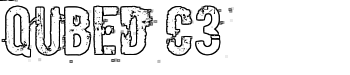
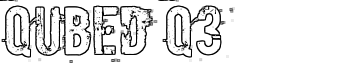
Update website to reflect new changes to branding.

diff --git a/index.html b/index.html
@@ -4,7 +4,7 @@
 <head>
   <meta http-equiv="Content-Type" content="text/html; charset=UTF-8"/>
   <meta name="viewport" content="width=device-width, initial-scale=1, maximum-scale=1.0, user-scalable=no"/>
-  <title>Qubed C3 - Home</title>
+  <title>Qubed Q3 - Home</title>
 
   <!-- CSS  -->
   <link href="https://fonts.googleapis.com/icon?family=Material+Icons" rel="stylesheet">
@@ -32,7 +32,7 @@
     <div class="section no-pad-bot">
       <div class="container">
         <br><br>
-        <h1 class="header center amber-text text-darken-3">Qubed C3</h1>
+        <h1 class="header center amber-text text-darken-3">Qubed Q3</h1>
         <div class="row center">
           <h5 class="header col red-text text-accent-4 s12 dark">A community for gamers. By gamers.</h5>
         </div>
@@ -101,24 +101,23 @@
       <div class="row">
         <div class="col l6 s12">
           <h5 class="white-text">About us</h5>
-          <p class="white-text">We are a group of gamers looking to have a fresh start as a brand new community. You'll find some old and new faces here that value and support one another.</p>
+          <p class="white-text">Who are we you ask? We are Qubed. We are gamers, artists, streamers, creators, and most of all friends. Born out of the ashes of a once great communit that held together through the years thanks to the fabric of our friendship, we will rebuild. We will be stronger and better through our cooperative efforts. Our community leaders will be committed to keeping this a fun environment for people to play together. If you like what you see consider joining us and taking part in the fun.</p>
 
 
         </div>
         <div class="col l3 s12">
           <h5 class="white-text">Connect</h5>
           <ul>
-            <li><a class="white-text" href="https://github.com/QubedC3/">Github</a></li>
-            <li><a class="white-text" href="#!">Link 2</a></li>
-            <li><a class="white-text" href="#!">Link 3</a></li>
-            <li><a class="white-text" href="#!">Link 4</a></li>
+            <li><a class="white-text" href="https://github.com/QubedQ3/">Github</a></li>
+            <li><a class="white-text" href="https://player.me/qubed_q3">Player.me</a></li>
+            <li><a class="white-text" href="https://twitter.com/Qubed_Q3">Twitter</a></li>
           </ul>
         </div>
       </div>
     </div>
     <div class="footer-copyright">
       <div class="container white-text">
-      Made by <a class="blue-text" href="https://github.com/QubedC3/">Qubed C3</a>
+      Made by <a class="blue-text" href="https://github.com/QubedQ3/">Qubed Q3</a>
       </div>
     </div>
   </footer>

diff --git a/watch/index.html b/watch/index.html
@@ -25,7 +25,7 @@
     <meta http-equiv="Content-Type" content="text/html; charset=UTF-8"/>
     <meta name="viewport"
           content="width=device-width, initial-scale=1, maximum-scale=1.0, user-scalable=no"/>
-    <title>Qubed C3 - Watch</title>
+    <title>Qubed Q3 - Watch</title>
 
     <!-- CSS  -->
     <link href="https://fonts.googleapis.com/icon?family=Material+Icons"
@@ -110,24 +110,23 @@
             <div class="col l6 s12">
                 <h5 class="white-text">About us</h5>
 
-                <p class="white-text">We are a group of gamers looking to have a fresh start as a brand new community. You'll find some old and new faces here that value and support one another.</p>
+                <p class="white-text">Who are we you ask? We are Qubed. We are gamers, artists, streamers, creators, and most of all friends. Born out of the ashes of a once great communit that held together through the years thanks to the fabric of our friendship, we will rebuild. We will be stronger and better through our cooperative efforts. Our community leaders will be committed to keeping this a fun environment for people to play together. If you like what you see consider joining us and taking part in the fun.</p>
 
 
             </div>
             <div class="col l3 s12">
                 <h5 class="white-text">Connect</h5>
                 <ul>
-                    <li><a class="white-text" href="https://github.com/QubedC3">Github</a></li>
-                    <li><a class="white-text" href="#!">Link 2</a></li>
-                    <li><a class="white-text" href="#!">Link 3</a></li>
-                    <li><a class="white-text" href="#!">Link 4</a></li>
+                    <li><a class="white-text" href="https://github.com/QubedQ3/">Github</a></li>
+                    <li><a class="white-text" href="https://player.me/qubed_q3">Player.me</a></li>
+                    <li><a class="white-text" href="https://twitter.com/Qubed_Q3">Twitter</a></li>
                 </ul>
             </div>
         </div>
     </div>
     <div class="footer-copyright">
         <div class="container white-text">
-            Made by <a class="blue-text" href="https://github.com/QubedC3/">Qubed C3</a>
+            Made by <a class="blue-text" href="https://github.com/QubedQ3/">Qubed Q3</a>
         </div>
     </div>
 </footer>

diff --git a/js/twitchstream.js b/js/twitchstream.js
@@ -5,7 +5,7 @@
 // Modded by Kweh for use on the Qubetubers site.
 // Rewritten with hitbox support by freaktechnik
 
-var twitchUser = "QTFollow",
+var twitchUser = "qubed_q3",
     hitbox = ['100chilly'],
     social = {kweeeeh: "kweh"},
 
@@ -341,7 +341,7 @@ User.prototype.tlive = false;
 // true, if the user is live on hitbox
 User.prototype.hlive = false;
 // An URL pointing to an avatar image representing this user
-User.prototype.avatar = "/wp-content/themes/qt/img/qt-default.png";
+User.prototype.avatar = "";
 // The displayed name for this user
 User.prototype.name = "Unknown";
 // Number of viewers this user currently has. Can only be for one source (case where a user is live on two services should be rare enough to ignore it for now)
@@ -383,7 +383,7 @@ jQuery(document).ready(function( $ ) {
                     return !user.live();
                 });
                 if(allOffline) {
-                    Page.showPlayer(UserList.getTwitchUserByName("qubetubers"));
+                    Page.showPlayer(UserList.getTwitchUserByName("harrihu_inkpen"));
                 }
                 else {
                     UserList.list.some(function(user) {
